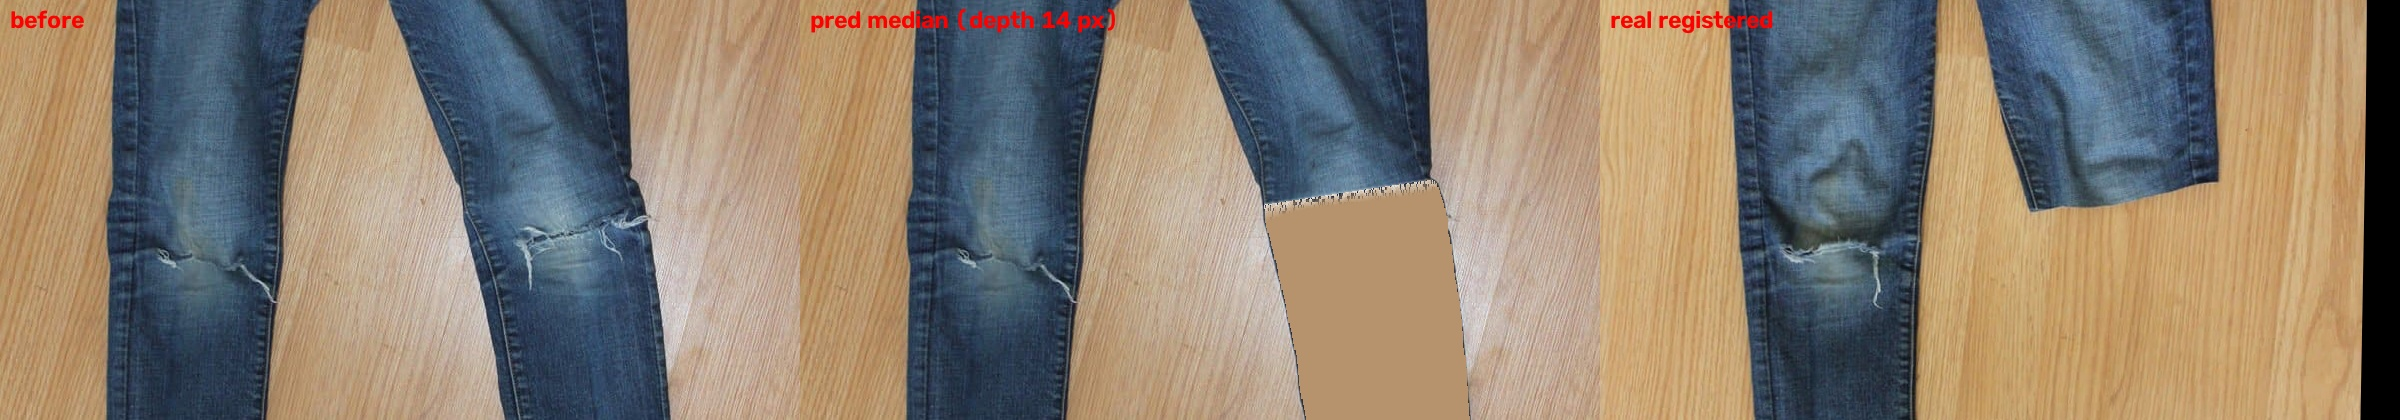
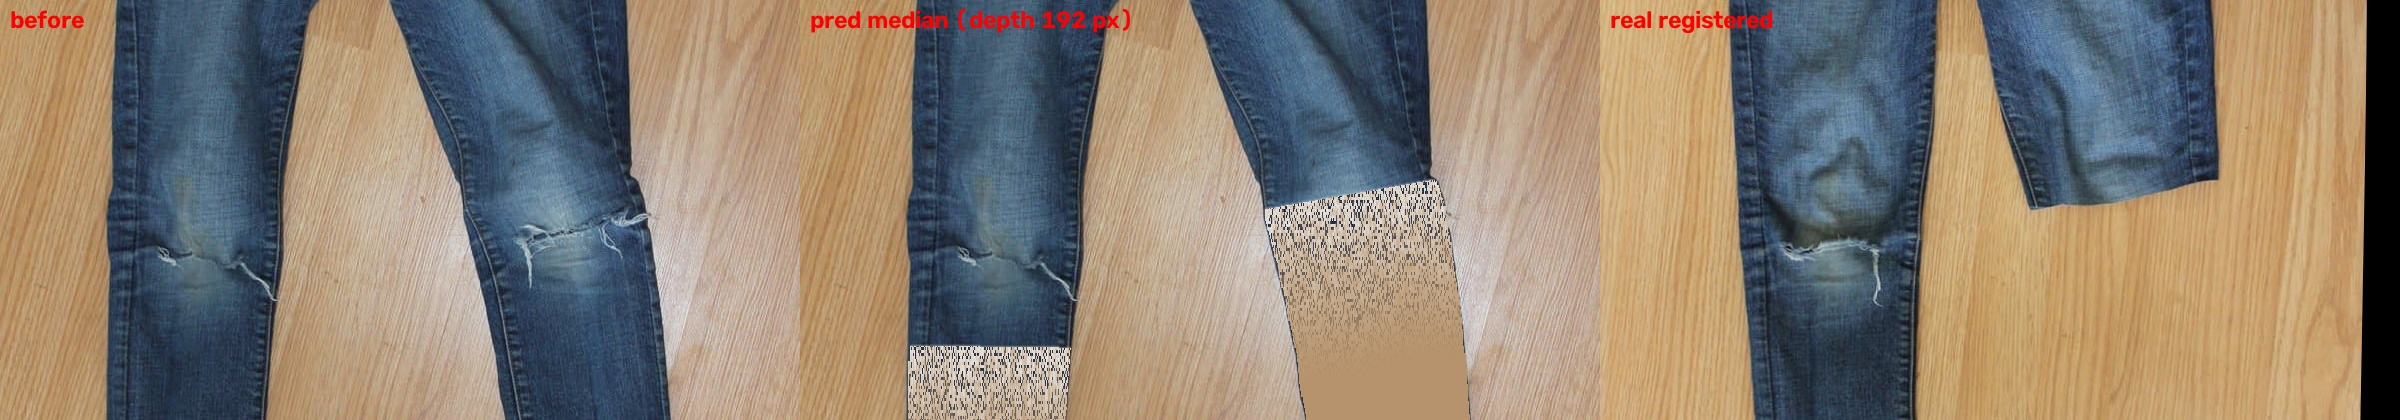
EXP_0004: SAM fringe result; batch/report/prior refresh

diff --git a/experiments/pairs/REPORT.md b/experiments/pairs/REPORT.md
@@ -2,14 +2,14 @@
 
 | pair | reg resid | sil_iou_vs_real pred / crop / no-op | hem_chamfer pred / crop / no-op | dE_edge_band_vs_real pred / crop / no-op | fringe_iou_vs_real pred / crop / no-op | fringe_profile_dist pred / crop / no-op |
 |---|---|---|---|---|---|---|
-| 4bfef03bd7 | 11.1 | 0.79 / 0.79 / 0.35 | 25.03 / 24.63 / 458.16 | 22.52 / 22.65 / 24.91 | 0.03 / 0.00 / 0.00 | 0.00 / 0.00 / 1.00 |
-| b630a78c19 | 9.5 | 0.88 / 0.88 / 0.73 | 58.05 / 60.24 / 141.83 | 13.65 / 13.68 / 12.53 | 0.10 / 0.00 / 0.11 | 0.07 / 0.08 / 0.92 |
+| 4bfef03bd7 | 42.0 | 0.77 / 0.75 / 0.29 | 16.83 / 21.99 / 503.38 | 22.92 / 23.33 / 20.45 | 0.26 / 0.00 / 0.04 | 0.02 / 0.03 / 0.97 |
+| b630a78c19 | 9.5 | 0.74 / 0.74 / 0.73 | 155.69 / 157.52 / 141.83 | 16.21 / 15.51 / 14.10 | 0.13 / 0.00 / 0.41 | 0.31 / 0.34 / 0.66 |
 
 ## Means and prediction − crop-only deltas
-- sil_iou_vs_real: pred 0.839, crop 0.838, Δ +0.001 (n=2)
-- hem_chamfer: pred 41.538, crop 42.435, Δ -0.897 (n=2)
-- dE_edge_band_vs_real: pred 18.083, crop 18.167, Δ -0.084 (n=2)
-- fringe_iou_vs_real: pred 0.065, crop 0.000, Δ +0.065 (n=2)
-- fringe_profile_dist: pred 0.036, crop 0.041, Δ -0.005 (n=2)
+- sil_iou_vs_real: pred 0.756, crop 0.744, Δ +0.011 (n=2)
+- hem_chamfer: pred 86.259, crop 89.754, Δ -3.495 (n=2)
+- dE_edge_band_vs_real: pred 19.565, crop 19.418, Δ +0.147 (n=2)
+- fringe_iou_vs_real: pred 0.198, crop 0.000, Δ +0.198 (n=2)
+- fringe_profile_dist: pred 0.163, crop 0.184, Δ -0.021 (n=2)
 
 Rule: heuristic thresholds (hemfit/autolm) change only with n >= 5 and this table attached.

diff --git a/experiments/EXP_0004_auto_pipeline_pair1/NOTE.md b/experiments/EXP_0004_auto_pipeline_pair1/NOTE.md
@@ -39,3 +39,19 @@ true diagonal (±17–20°) to near-flat, depending on small heuristic choices (
 crotch prior). That variance is a property of tuning on ONE low-res pair, not progress. Current code keeps the
 principled versions (cut-invariant landmarks, hip-midpoint split, mask fallback) and accepts the flatter fit here.
 Rule from now on: hemfit/autolm thresholds change only against ≥5 pairs, with numbers reported for all of them.
+
+## Update — SAM fringe segmentation (2026-08-29 04:45 UTC)
+`seg.sam.segment_fringe` (SAM prompted on the hem band of the after-photo, restricted to the bottom 35% of the garment)
+replaces the colour split; the mask is warped into the before frame with the same TPS, and the fabric edge per column
+is where the fringe starts. Also: hem scan starts at the hip row; crotch prior 0.6× waist width.
+
+| system | sil IoU | hem error px | edge ΔE | fringe IoU |
+|---|---|---|---|---|
+| **prediction (v1 median, measured depth 24.5 px)** | **0.773** | **17.5** | 23.0 | **0.274** |
+| null: crop-only | 0.756 | 22.7 | 23.5 | 0.000 |
+| null: no-op | 0.285 | 505 | 20.5 | 0.038 |
+
+First time the prediction beats crop-only on a geometry metric (the fringe adds real garment area below the cut).
+Depth is still *measured* on this pair (not predicted) — `--prior` becomes meaningful at n ≥ 5. Angles −10°/+5° vs the
+true ≈ ±17–20°: partial. This change is principled (a segmentation model replacing a colour heuristic), so it does not
+violate the stop-tuning rule; it still needs confirmation on more pairs.

diff --git a/experiments/pairs/4bfef03bd7/NOTE.md b/experiments/pairs/4bfef03bd7/NOTE.md
@@ -4,14 +4,14 @@ before: /Users/jefferyhuang/denim-twin/data/external/pair_images/4bfef03bd7_befo
 after: /Users/jefferyhuang/denim-twin/data/external/pair_images/4bfef03bd7_after_wash_44ffba7e.jpeg collage split (stacked) at y=512, kept top
 scale: UNKNOWN (1.0 placeholder; mm values are px)
 landmarks: auto / auto (crotch: prior_legs_touching / gap)
-fringe depth used: 2.5 px from measured from after-photo (NOT a prediction); measured on after-photo: 2.5 px
-hem fit: left: angle 2.6°, depth 1, right: angle -2.0°, depth 4
-registration residual (leave-one-landmark-out): 11.10px
+fringe depth used: 23.0 px from measured from after-photo (NOT a prediction); measured on after-photo: 23.0 px (fabric/fringe split: SAM)
+hem fit: left: angle -10.4°, depth 31, right: angle 4.5°, depth 15
+registration residual (leave-one-landmark-out): 42.01px
 
 | system | sil IoU | chamfer | edge ΔE | fringe IoU |
 |---|---|---|---|---|
-| pred conservative | 0.794 | 24.8 | 22.5 | 0.017 |
-| pred median | 0.794 | 25.0 | 22.5 | 0.032 |
-| pred aggressive | 0.793 | 25.5 | 22.5 | 0.041 |
-| null:no-op | 0.345 | 458.2 | 24.9 | 0.002 |
-| null:crop-only | 0.795 | 24.6 | 22.7 | 0.000 |
+| pred conservative | 0.759 | 19.3 | 23.1 | 0.123 |
+| pred median | 0.767 | 16.8 | 22.9 | 0.265 |
+| pred aggressive | 0.771 | 16.1 | 22.7 | 0.338 |
+| null:no-op | 0.286 | 503.4 | 20.5 | 0.038 |
+| null:crop-only | 0.751 | 22.0 | 23.3 | 0.000 |

diff --git a/experiments/pairs/b630a78c19/NOTE.md b/experiments/pairs/b630a78c19/NOTE.md
@@ -4,14 +4,14 @@ before: /Users/jefferyhuang/denim-twin/data/external/pair_images/b630a78c19_befo
 after: /Users/jefferyhuang/denim-twin/data/external/pair_images/b630a78c19_after_cut_c7a4d702.jpg 
 scale: UNKNOWN (1.0 placeholder; mm values are px)
 landmarks: auto / auto (crotch: gap / gap)
-fringe depth used: 13.5 px from measured from after-photo (NOT a prediction); measured on after-photo: 13.5 px
-hem fit: left: angle -5.5°, depth 18, right: angle -8.5°, depth 9
+fringe depth used: 191.5 px from measured from after-photo (NOT a prediction); measured on after-photo: 191.5 px (fabric/fringe split: SAM)
+hem fit: left: angle 0.7°, depth 383, right: angle -9.9°, depth 0
 registration residual (leave-one-landmark-out): 11.02px
 
 | system | sil IoU | chamfer | edge ΔE | fringe IoU |
 |---|---|---|---|---|
-| pred conservative | 0.882 | 59.3 | 13.7 | 0.043 |
-| pred median | 0.883 | 58.0 | 13.7 | 0.098 |
-| pred aggressive | 0.884 | 57.1 | 13.6 | 0.142 |
-| null:no-op | 0.730 | 141.8 | 12.5 | 0.114 |
-| null:crop-only | 0.881 | 60.2 | 13.7 | 0.000 |
+| pred conservative | 0.742 | 155.7 | 15.7 | 0.061 |
+| pred median | 0.744 | 155.7 | 16.2 | 0.131 |
+| pred aggressive | 0.745 | 156.3 | 16.2 | 0.180 |
+| null:no-op | 0.730 | 141.8 | 14.1 | 0.411 |
+| null:crop-only | 0.738 | 157.5 | 15.5 | 0.000 |

diff --git a/experiments/pairs/SUMMARY.md b/experiments/pairs/SUMMARY.md
@@ -2,8 +2,8 @@
 
 | page | title | after | status | sil IoU pred / crop / no-op | chamfer px pred / crop | edge ΔE pred / crop | fringe IoU pred / no-op |
 |---|---|---|---|---|---|---|---|
-| b630a78c19 | How To Make Jeans Into Shorts The Easy W | after_cut | ok | 0.88 / 0.88 / 0.73 | 58 / 60 | 13.7 / 13.7 | 0.10 / 0.11 |
+| b630a78c19 | How To Make Jeans Into Shorts The Easy W | after_cut | ok | 0.74 / 0.74 / 0.73 | 156 / 158 | 16.2 / 15.5 | 0.13 / 0.41 |
 | 660bef67bf | Cómo hacer shorts con jeans viejos | after_cut | FAIL: REJECT: after: garment touches the frame edge (cropped photo | | | | |
 | 85d48013a2 | Tutorial: Aus Lang mach Kurz – Jeanshose | after_cut | FAIL: REJECT: after: garment touches the frame edge (cropped photo | | | | |
-| 4bfef03bd7 | DIY Denim Shorts | Thrifted Jeans Into S | after_wash | ok | 0.79 / 0.79 / 0.35 | 25 / 25 | 22.5 / 22.7 | 0.03 / 0.00 |
+| 4bfef03bd7 | DIY Denim Shorts | Thrifted Jeans Into S | after_wash | ok | 0.77 / 0.75 / 0.29 | 17 / 22 | 22.9 / 23.3 | 0.26 / 0.04 |
 | ee4bf13a3c | Magnolia Mamas: Fashion Fix: DIY Distres | after_wash | FAIL: REJECT: before: garment touches the frame edge (cropped phot | | | | |
